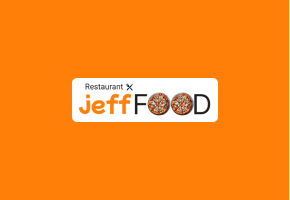
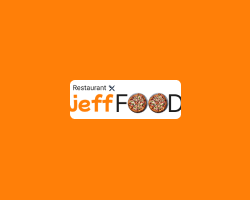
responsive

Changed region(s): [[0.224, 0.39, 0.756, 0.63], [0.98, 0.0, 1.0, 1.0]]

diff --git a/index.html b/index.html
@@ -19,7 +19,7 @@
 
             <img src="assets/logos/logo.png" alt="logo" />
 
-            <div class="d-flex align-items-center p-5">
+            <div class="d-flex align-items-center">
                 <div class="pres">
                     <h5>Salut !</h5>
                     <h1>C'est <span>Jeffren</span>  <br> Web Developper, <br> UI/UX Designer</h1>
@@ -109,18 +109,18 @@
 
         </section>
 
-        <section class="projects container text-center">
+        <section class="projects">
 
-            <h1 class="mb-3">Mes Projets</h1>
+            <h1 class="mb-3 text-center">Mes Projets</h1>
 
-            <p class="mb-4">Quelques projets sur lesquels j'ai travaillé</p>
+            <p class="mb-4 text-center">Quelques projets sur lesquels j'ai travaillé</p>
 
-            <div class="links d-flex justify-content-center">
+            <div class="links">
 
-                <div class="row gap-3">
+                <div class="projets-links d-flex align-items-center justify-content-center gap-3">
 
-                    <a class="col-lg-4 rounded" href="https://exemple-jeffren.vercel.app">
-                        <div class="text-center text-white">
+                    <a class="col-lg-4 rounded overflow-hidden" href="https://exemple-jeffren.vercel.app">
+                        <div class=" text-white">
         
                             <img src="assets/images/matrix.png" alt="" class="mb-3">
                             <p class="mb-3">Matrix SAS</p>
@@ -129,9 +129,9 @@
                         </div>
                     </a>
 
-                    <a class="col-lg-4 rounded" href="https://jeffood.vercel.app/">
+                    <a class="col-lg-4 rounded overflow-hidden" href="https://jeffood.vercel.app/">
         
-                        <div class="text-center text-white">
+                        <div class="text-white">
         
                             <img src="assets/images/jeffFood.png" alt="" class="mb-3">
                             <p class="mb-3">JeffFood</p>
@@ -141,9 +141,9 @@
         
                     </a>
         
-                    <a class="col-lg-4 rounded" href="https://figma-to-code-challenge-week2-jeffren.vercel.app/">
+                    <a class="col-lg-4 rounded overflow-hidden" href="https://figma-to-code-challenge-week2-jeffren.vercel.app/">
         
-                        <div class="text-center text-white">
+                        <div class="text-white">
         
                             <img src="assets/images/coral.png" alt="" class="mb-3">
                             <p class="mb-3">Coral</p>
@@ -162,13 +162,13 @@
 
         <section class="contact overflow-hidden mb-3">
 
-            <div class="d-flex align-items-center justify-content-around">
+            <div class="div-cont d-flex align-items-center justify-content-around">
 
-                <img width="500" src="assets/images/illustration-style-artistique-numerique-du-graphiste_23-2151536939.avif" alt="" class="">
+                <img width="500" src="assets/images/concepteur-industriel-art-numerique_23-2151585288.avif" alt="" class="">
                 
                 <div class=" p-4">
 
-                    <h1 class="mb-5">Etes-vous intéressé de travailler avec moi ?</h1>
+                    <h1 class="mb-4">Etes-vous intéressé de travailler avec moi ?</h1>
 
                     <h2 class="mb-3">Me contacter</h2>
 

diff --git a/dist/css/style.css b/dist/css/style.css
@@ -37,7 +37,7 @@
 /* Body */
 
 body {
-    background-color: #07161b;
+    background-color: #0E0E0E;
     color: var(--colorWhite);
     font-size: 1rem;
 }
@@ -51,6 +51,10 @@ body {
     background-repeat: no-repeat;
     background-size: cover;
     min-height: 100vh;
+}
+
+.accueil .pres{
+    padding: 30px;
 }
 
 :where(.accueil .pres) h1, h5{
@@ -105,6 +109,7 @@ body {
 
 .projects{
     margin-bottom: 100px;
+    width: 100%;
 }
 
 .projects h1{
@@ -116,13 +121,19 @@ body {
 .projects .links a{
     border: 1px solid gray;
     width: 250px;
-    overflow: hidden;
+    transform: scale(1);
+    transition: transform .3s ease-in-out;
+    will-change: transform;
+}
+
+.projects .links a:hover{
+    transform: scale(1.050);
 }
 
 /* Cntacts */
 
 .contact{
-    background-color: rgba(217, 217, 217, .1);
+    background-color: #000;
     /* padding: 30px; */
 }
 
@@ -142,4 +153,87 @@ body {
 
 .contact .links-contact div a i{
     font-size: 5rem;
+}
+
+/* Media Query */
+
+@media(max-width: 1024px){
+    h1{
+        font-size: 2.5rem!important;
+    }
+
+    .contact .links-contact div a i{
+        font-size: 4rem;
+    }
+
+    .contact .div-cont .links-contact{
+        gap: 10px!important;
+    }
+
+    .accueil{
+        min-height: 90vh;
+    }
+}
+
+@media(max-width: 990px){
+
+    .accueil{
+        min-height: 85vh;
+    }
+
+    .outils .cont-logos-plat{
+        grid-template-columns: repeat(2, 1fr);
+    }
+
+    .contact .links-contact div a i{
+        font-size: 3rem;
+    }
+
+    .contact .div-cont .links-contact{
+        gap: 5px!important;
+        text-align: center!important;
+    }
+
+}
+
+@media (max-width: 820px){
+
+    body{
+        background-color: red;
+    }
+
+    .projects .links a{
+        width: 220px;
+    }
+
+    .contact .div-cont{
+        flex-direction: column-reverse;
+    }
+
+    .accueil{
+        min-height: 60vh;
+    }
+
+    h1{
+        font-size: 2rem!important;
+    }
+
+    .contact h1{
+        font-size: 1.7rem;
+    }
+
+    .contact .links-contact div a i{
+        font-size: 2.5rem;
+    }
+
+    .contact .div-cont img{
+        width: 100%!important;
+    }
+}
+
+@media (max-width: 768px){
+    .projects .links .projets-links{
+        flex-direction: column-reverse!important;
+    }
+
 }
